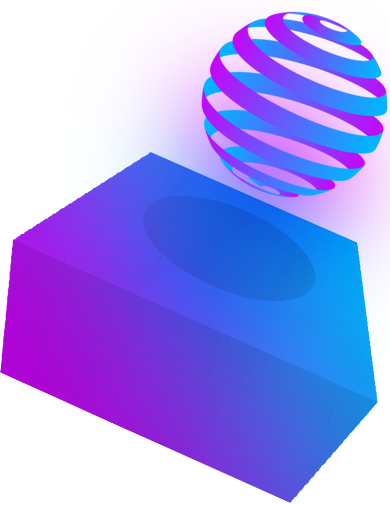
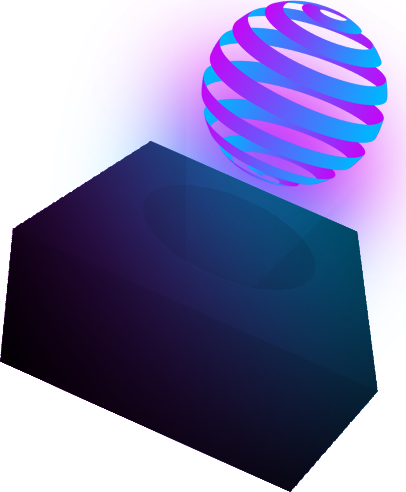
Fixed Gradient and font sizes

diff --git a/assets/css/style.css b/assets/css/style.css
@@ -502,14 +502,15 @@ nav li:nth-of-type(5) {
 }
 
 .cd-wrap a {
-  font-size: 20px;
-  line-height: 25px;
+  color: #ab22ef;
+  font-size: 15px;
+  line-height: 23px;
   letter-spacing: 0px;
-  font-weight: 400;
-  padding: 10px 25px;
-  border-radius: 10px;
+  padding: 10px 40px;
+  border-radius: 35px;
   text-decoration: none;
   border: 2px solid #6b6b6b;
+  font-weight: 600;
   transition-duration: 0.4s;
 }
 
@@ -522,9 +523,10 @@ nav li:nth-of-type(5) {
 
 .cta-btn {
   margin: 0px 0px 0px 0px;
+  align-items: flex-start;
 }
 
-.cta-btn a {
+/* .cta-btn a {
   display: inline-block;
   font-weight: bold;
   font-size: 14px;
@@ -538,14 +540,14 @@ nav li:nth-of-type(5) {
   transition-duration: 0.4s;
   color: white;
   background: linear-gradient(to right, #8d47db 0%, #4180b8 50%) !important;
-}
+} */
 
-.cta-btn a:hover {
+/* .cta-btn a:hover {
   background: white !important;
   border: 2px solid #8d47db;
   transition-duration: 0.4s;
   color: #8d47db;
-}
+} */
 /* Cards Section */
 .single-card-cd {
   background-color: white;
@@ -604,7 +606,7 @@ nav li:nth-of-type(5) {
 }
 
 .single-card-cd .head-ct h3 {
-  color: #666;
+  color: #000000;
   font-size: 26px;
   line-height: 28px;
   font-weight: bold;
@@ -653,9 +655,21 @@ nav li:nth-of-type(5) {
   padding-top: 4rem;
 }
 
-.someMarquee div {
-  color: white;
-  font-size: 82px;
+.someMarquee span {
+  background-image: linear-gradient(
+    135deg,
+    #008aff 0%,
+    #0078ff 30%,
+    #be00d4 66%,
+    #ba00ee 100%
+  ) !important;
+  background-size: 100%;
+  background-repeat: repeat;
+  -webkit-background-clip: text;
+  -webkit-text-fill-color: transparent;
+  -moz-background-clip: text;
+  -moz-text-fill-color: transparent;
+  font-size: 130px;
 }
 
 .swiper-slide img {
@@ -700,15 +714,22 @@ nav li:nth-of-type(5) {
 }
 
 .single_cout-box {
-  border: 1px solid;
   display: flex;
   color: white;
-  border-image: linear-gradient(45deg, #8d47db, #4180b8) 1;
+  border: 5px solid !important;
+  border-image: linear-gradient(
+      135deg,
+      #008aff 0%,
+      #0078ff 30%,
+      #be00d4 66%,
+      #ba00ee 100%
+    )
+    1 !important;
+  border-radius: 8px !important;
   justify-content: center;
   flex-direction: column;
   align-items: center;
   padding: 40px 0px;
-  border-radius: 10px;
 }
 
 .single_cout-box span {
@@ -753,8 +774,8 @@ h1.cs-main-heading {
 }
 
 .choose-wrap {
-  width: 80%;
-  margin: auto;
+  width: 50%;
+  margin-left: 18.5rem;
   display: flex;
   flex-direction: column;
   gap: 3rem;
@@ -899,7 +920,7 @@ h1.cs-main-heading {
 .list-ft-outer {
   display: grid;
   grid-template-columns: auto auto;
-  grid-gap: 1rem;
+  grid-gap: 1rem 5rem;
   padding-top: 20px;
 }
 
@@ -1479,6 +1500,11 @@ a.e8-link {
 
 /* Media Query */
 @media screen and (max-width: 1550px) {
+  .choose-wrap {
+    width: 84%;
+    margin: auto;
+  }
+
   .single-card-cd,
   .single-card-heading {
     height: 510px;
@@ -1495,6 +1521,10 @@ a.e8-link {
 @media screen and (max-width: 1200px) {
   .video-bg-hero .sc-text-cstm-2 h1 {
     width: 100%;
+  }
+
+  .someMarquee span {
+    font-size: 70px;
   }
 
   .cards-wrap .row {
@@ -1514,6 +1544,10 @@ a.e8-link {
 @media screen and (max-width: 992px) {
   .ind-rt {
     padding-top: 50px;
+  }
+
+  .someMarquee span {
+    font-size: 50px;
   }
 }
 
@@ -1625,6 +1659,10 @@ a.e8-link {
   .swiper-slide video {
     height: 432px;
   }
+
+  .someMarquee span {
+    font-size: 37px;
+  }
 }
 
 @media only screen and (max-width: 768px) and (min-width: 480px) {
@@ -1696,5 +1734,9 @@ a.e8-link {
 
   .faq-section .swiper-wrapper {
     height: 1016px !important;
+  }
+
+  .someMarquee span {
+    font-size: 22px;
   }
 }

diff --git a/index.html b/index.html
@@ -379,11 +379,11 @@
       </div>
 
       <div class="someMarquee">
-        <div>Ready to bring your vision to life?</div>
-        <div>Ready to bring your vision to life?</div>
-        <div>Ready to bring your vision to life?</div>
-        <div>Ready to bring your vision to life?</div>
-        <div>Ready to bring your vision to life?</div>
+        <span>Ready to bring your vision to life?</span>
+        <span>Ready to bring your vision to life?</span>
+        <span>Ready to bring your vision to life?</span>
+        <span>Ready to bring your vision to life?</span>
+        <span>Ready to bring your vision to life?</span>
       </div>
     </div>
 
@@ -432,7 +432,7 @@
                   extraordinary visual narrative for your brand.
                 </p>
               </div>
-              <div class="cta-btn">
+              <div class="cta-btn cd-wrap">
                 <a href="#">Connect with us</a>
               </div>
             </div>
@@ -700,31 +700,31 @@
                 >
                   <div class="single-ft">
                     <div class="ft-icon">
-                      <img src="assets/images/round-shape_03.png" alt="" />
+                      <img src="assets/images/box-icon.png" alt="" />
                     </div>
                     <span>2D Designing</span>
                   </div>
                   <div class="single-ft">
                     <div class="ft-icon">
-                      <img src="assets/images/round-shape_03.png" alt="" />
+                      <img src="assets/images/box-icon.png" alt="" />
                     </div>
                     <span>Graphic Designing</span>
                   </div>
                   <div class="single-ft">
                     <div class="ft-icon">
-                      <img src="assets/images/round-shape_03.png" alt="" />
+                      <img src="assets/images/box-icon.png" alt="" />
                     </div>
                     <span>3D Modelling</span>
                   </div>
                   <div class="single-ft">
                     <div class="ft-icon">
-                      <img src="assets/images/round-shape_03.png" alt="" />
+                      <img src="assets/images/box-icon.png" alt="" />
                     </div>
                     <span>Infographics</span>
                   </div>
                   <div class="single-ft">
                     <div class="ft-icon">
-                      <img src="assets/images/round-shape_03.png" alt="" />
+                      <img src="assets/images/box-icon.png" alt="" />
                     </div>
                     <span>Motion Graphics</span>
                   </div>
